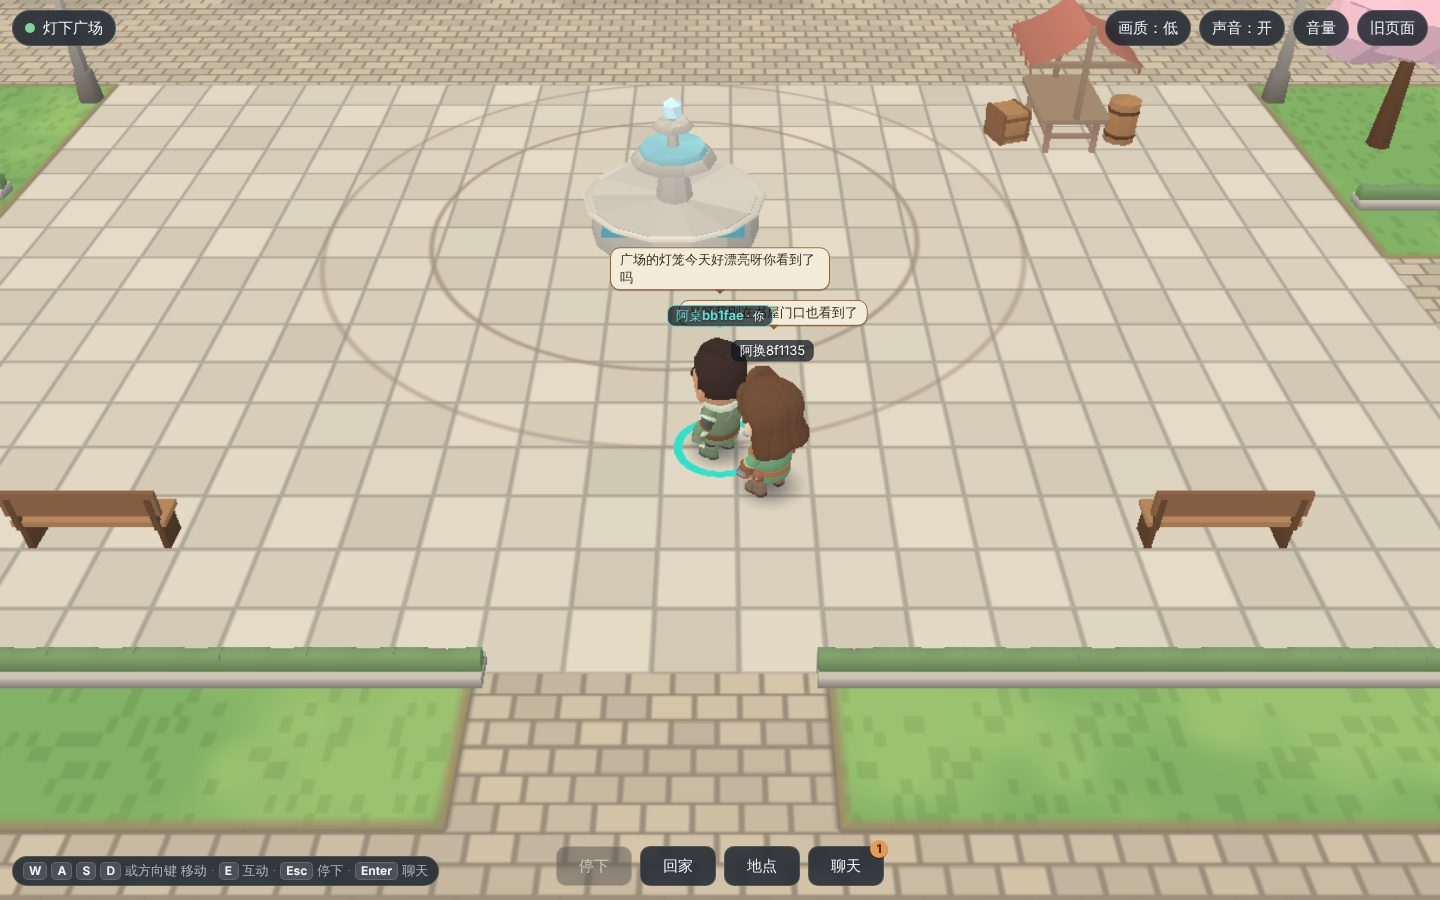
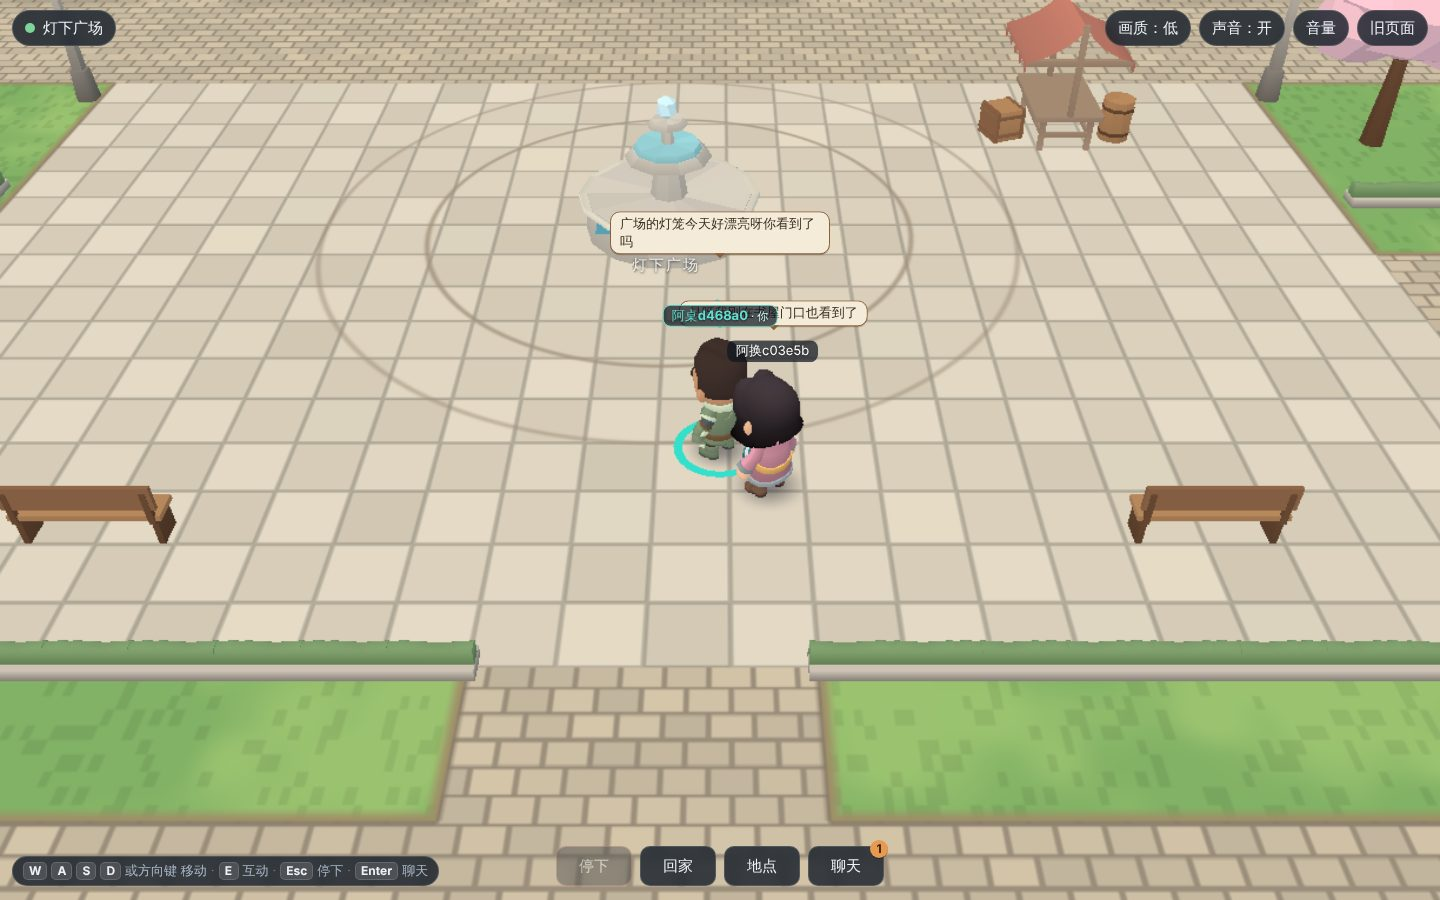
C1b：气泡之间错开（近的往上抬一格），截图更新；合并开发分支后 1、4.5、20、chat-town 步骤通过

Changed region(s): [[0.0, 0.0, 1.0, 1.0]]

diff --git a/client/docs/C1b.md b/client/docs/C1b.md
@@ -61,7 +61,7 @@
 ## 6. 已知缺口与没做的
 
 - 骨架缺陷（需先合并的补丁，不在 C1b 改）：手机抽屉里 `#dockGrip`（dock.css：高 44px、z-index 2）盖住整条页签，Playwright 真实点击页签会一直超时，真人点页签也会被当成点把手而收起面板。建议把把手缩到不盖页签的区域或让页签排除在把手之外。e2e 里 `lib/town.mjs::openTown` 在抽屉布局下改为对页签派发 click 绕过。
-- 气泡之间不避让：两位居民站得很近（截图里两人几乎重叠）时，两个气泡会叠在一起，后一个的文字可能被前一个或名牌盖住。每个气泡只相对自己的名牌定位。真实场景里人通常不会完全重叠，留作后续（可在 `_anchor` 一处加错位）。
+- 气泡避让：`bubbles.gd::tags()` 里，屏幕上离得近（横向 < 120px、纵向 < 36px）的气泡，后放的往上错一格（只往上，仍在自己名牌之上；空集合时仍零开销）。像素阈值按画布像素算，没有做真机验证。
 - 没做：按人屏蔽、公屏的撤回 / 举报、气泡里的类型图标、NPC 头顶气泡（C6）。
 - 对局中公屏只看不发的真实对局断言由 C3 的 50.45 补；服务端侧已有 `chat-direction.test.ts`。
 - 30.75 的 resync 重建没能做出红灯，见下。
